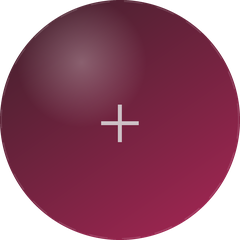
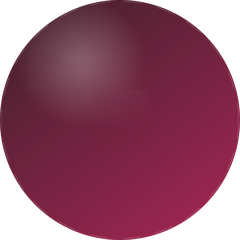
fix(roku): profile gear, sign out and add-profile drawn as tint, glyph bitmap and text

Changed region(s): [[0.4083, 0.4375, 0.5833, 0.6125]]

diff --git a/clients/roku/tests/test_contract.py b/clients/roku/tests/test_contract.py
@@ -123,8 +123,8 @@ class NavigationContractTests(unittest.TestCase):
         self.assertIn('id="profilesSettingsHit"', SCENE)
         self.assertIn('id="profilesSignOutHit"', SCENE)
         self.assertIn('id="profileActionsGroup"', SCENE)
-        self.assertIn("profiles-gear.png", SCENE)
-        self.assertIn("profiles-signout.png", SCENE)
+        self.assertIn("profiles-gear-glyph.png", SCENE)
+        self.assertIn("profiles-exit-glyph.png", SCENE)
         self.assertIn("sub applyProfilesChrome(", MAIN)
         self.assertIn("sub updateProfileActionsLayout(", MAIN)
         self.assertIn("sub focusProfilesRowOnCurrent(", MAIN)
